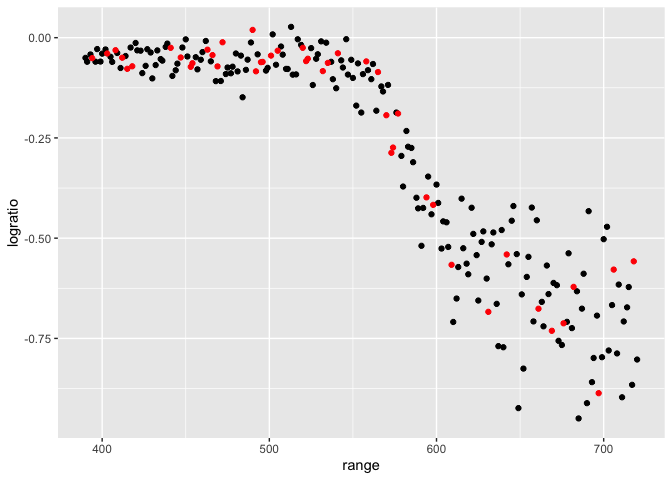
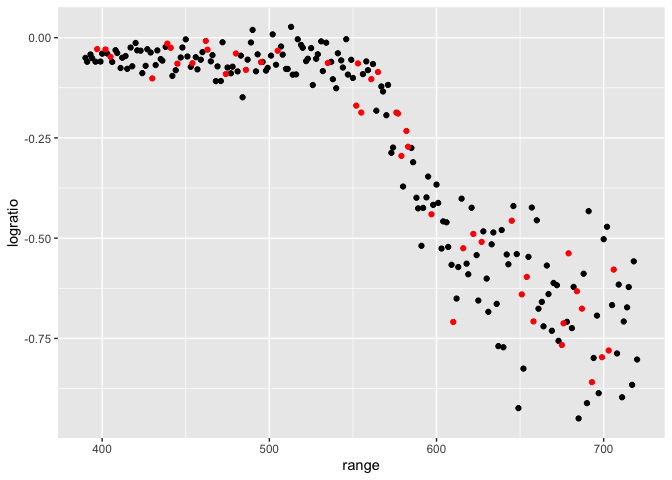
repeated cv splits for lidar data

diff --git a/02_cross_validation.md b/02_cross_validation.md
@@ -89,18 +89,97 @@ Do a model comparison!
 rmse(linear_mod, test_df)
 ```
 
-    ## [1] 0.129309
+    ## [1] 0.1211799
 
 ``` r
 rmse(smooth_mod, test_df)
 ```
 
-    ## [1] 0.05994428
+    ## [1] 0.07114883
 
 ``` r
 rmse(wiggly_mod, test_df)
 ```
 
-    ## [1] 0.06833535
+    ## [1] 0.08034146
 
-- Higher `rmse` returned are better fit
+- Lower `rmse` returned are better fit
+
+## Repeat a bunch of times
+
+Use some nice tools woo
+
+``` r
+cv_df =
+  crossv_mc(lidar_df, 100)
+
+cv_df |> pull(train) |> nth(2) |> as_tibble()
+```
+
+    ## # A tibble: 176 × 3
+    ##       id range logratio
+    ##    <int> <dbl>    <dbl>
+    ##  1     1   390  -0.0504
+    ##  2     2   391  -0.0601
+    ##  3     4   394  -0.0510
+    ##  4     5   396  -0.0599
+    ##  5     6   397  -0.0284
+    ##  6     7   399  -0.0596
+    ##  7     8   400  -0.0399
+    ##  8     9   402  -0.0294
+    ##  9    11   405  -0.0476
+    ## 10    12   406  -0.0604
+    ## # ℹ 166 more rows
+
+``` r
+cv_df = 
+  crossv_mc(lidar_df, 100) |>
+  mutate(
+    train = map(train, as_tibble),
+    test = map(test, as_tibble)
+  )
+```
+
+Fitting models and get rmses for these.
+
+``` r
+rmse_comp = function(model, dataset) {
+  
+  rmse(model, dataset)
+  
+}
+```
+
+``` r
+cv_df = 
+  cv_df |>
+  mutate(
+    linear_fit = map(train, \(df) lm(logratio ~ range, data = df)),
+    smooth_fit = map(train, \(df) gam(logratio ~ s(range), data = df)),
+    wiggly_fit = map(train, \(df) gam(logratio ~ s(range, k = 30), sp = 10e-6, data = df))
+  ) |>
+  mutate(
+    rmse_linear = map2_dbl(linear_fit, test, rmse),
+    rmse_smooth = map2_dbl(smooth_fit, test, rmse),
+    rmse_wiggly = map2_dbl(wiggly_fit, test, rmse)
+  )
+```
+
+- Figure out what an anonymous function is (`\(df)`)
+
+Look at this!
+
+``` r
+cv_df |>
+  select(starts_with("rmse_")) |>
+  pivot_longer(
+    everything(),
+    names_to = "model",
+    names_prefix = "rmse_",
+    values_to = "rmse"
+  ) |>
+  ggplot(aes(x = model, y = rmse)) +
+  geom_violin()
+```
+
+![](02_cross_validation_files/figure-gfm/unnamed-chunk-12-1.png)<!-- -->
